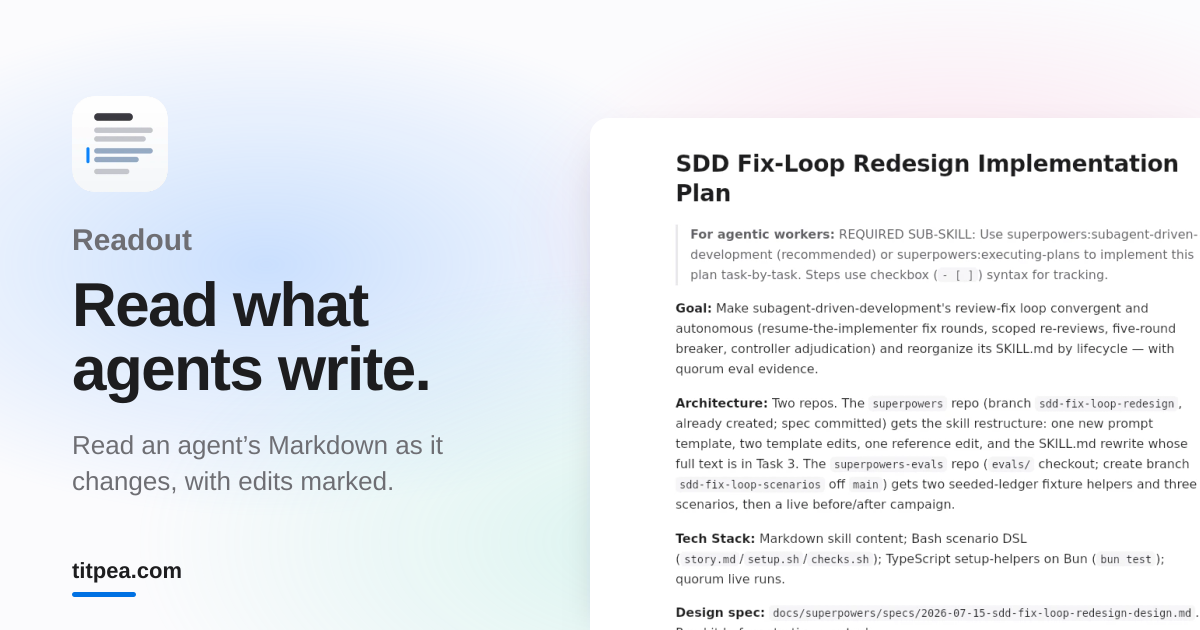
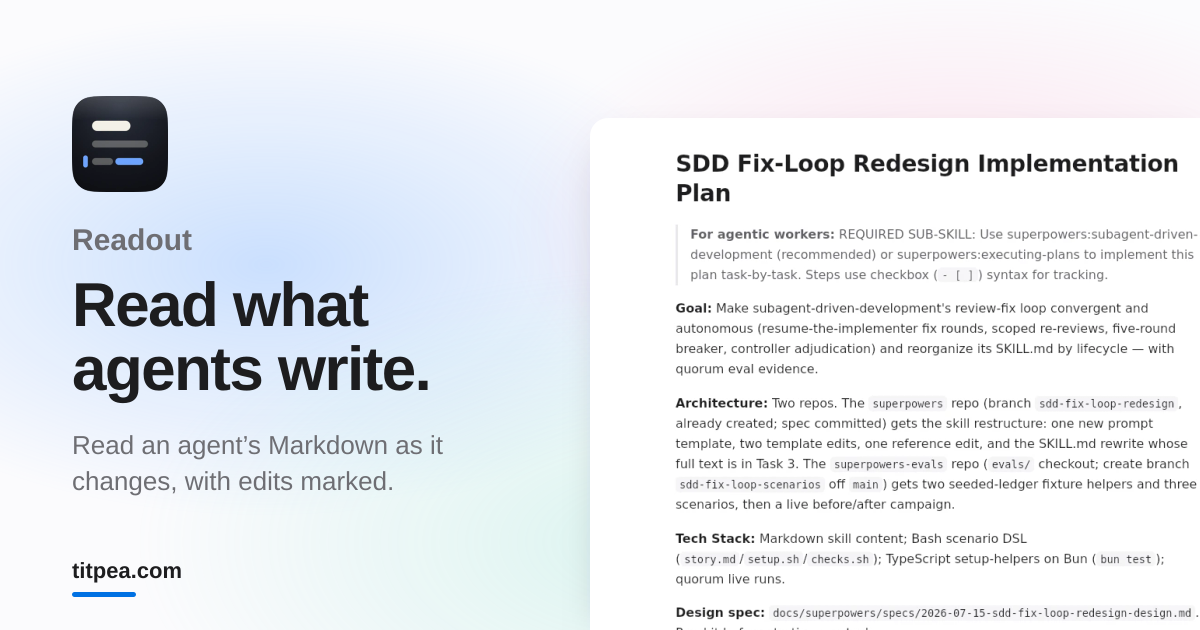
Readout v3.3.0 (#195)
* releases: Readout v3.3.0 (published 2026-10-12 UTC, as releases:sync records it)

Claude-Session: https://claude.ai/code/session_01JmaFxrCaTr7J8dy17sm4dB

* Readout 3.3.0: new documents open on their own, CLI by symlink, new icon

Copy now matches Readout v3.3.0 (en and zh):
- New card for the 3.2.0 auto-open of new documents in agent folders,
  replacing the ⌥⌘R card; the folders FAQ now covers what opens, the
  three-document burst rule and the ⌥⌘R shortcut.
- The CLI FAQ drops the removed Install Command Line Tool menu item and
  gives the README's symlink command; the hook stays optional.
- The new app icon (tools/icon/readout-1024.png) replaces the official
  artwork, with the product colour pair re-sampled from it; share images
  that show the icon are re-rendered.
- The Chinese hero render is re-cropped from the v3.3.0 corpus capture,
  whose mixed-script line height changed.

Claude-Session: https://claude.ai/code/session_01JmaFxrCaTr7J8dy17sm4dB

* Readout FAQ: include mkdir -p ~/.local/bin, as the README does

Claude-Session: https://claude.ai/code/session_01JmaFxrCaTr7J8dy17sm4dB

* Readout zh FAQ: split the mkdir and ln steps to fit the sentence limit

Claude-Session: https://claude.ai/code/session_01JmaFxrCaTr7J8dy17sm4dB

* CI: Page QA timeout 8 → 12 minutes

With Readout added (16 products, 493 checks) the step needs about
7.5–8 minutes and hit the 8-minute cap on the PR run.

Claude-Session: https://claude.ai/code/session_01JmaFxrCaTr7J8dy17sm4dB

---------

Changed region(s): [[0.0617, 0.1508, 0.1542, 0.3317]]

diff --git a/src/content/products/readout.ts b/src/content/products/readout.ts
@@ -14,7 +14,7 @@ export default defineProduct({
   en: {
     title: "Readout",
     description:
-      "A native, read-only Markdown reader for macOS, made for what AI agents write: it follows the file live and marks what changed since you last read it.",
+      "A native, read-only Markdown reader for macOS, made for what AI agents write: it opens their new documents, follows them live and marks what changed since you last read.",
     eyebrow: "Markdown reader for macOS",
     headline: "Read what agents write.",
     lead: "Follows the file live. Marks what changed. Read-only.",
@@ -69,7 +69,7 @@ export default defineProduct({
             title: "GitHub-flavoured Markdown",
             body: "Tables, alerts, footnotes, highlighted code, KaTeX math and Mermaid.",
           },
-          { title: "Newest file, one key", body: "⌥⌘R opens the latest Markdown in your agents’ folders." },
+          { title: "Opens new documents", body: "New Markdown in an agent folder opens in the background." },
         ],
       },
       {
@@ -99,11 +99,11 @@ export default defineProduct({
           },
           {
             title: "Can I open files from the terminal or Claude Code?",
-            body: "Choose Readout → Install Command Line Tool… to get `readout`: `readout plan.md` opens a file and brings Readout forward, `readout -b plan.md` opens it without switching apps. For Claude Code, add a `PostToolUse` hook to `~/.claude/settings.json` with the matcher `Write|Edit|MultiEdit` and the command `readout --hook`. The hook opens the written file in the background, and only when it is Markdown.",
+            body: "Agents need no setup: the folders in Settings are enough. For a `readout` command, link the script inside the app with `mkdir -p ~/.local/bin && ln -sf /Applications/Readout.app/Contents/Resources/readout ~/.local/bin/readout`, with `~/.local/bin` on your `PATH`. Then `readout plan.md` opens a file, and `readout -b plan.md` opens it as a tab behind the one you are reading, without switching apps. To use a Claude Code hook instead of a watched folder, add `readout --hook` as a `PostToolUse` command for `Write|Edit|MultiEdit` in `~/.claude/settings.json`. It opens the written file in the background, and only when it is Markdown.",
           },
           {
-            title: "Which folders does ⌥⌘R look in?",
-            body: "The Agent folders you add in Settings; Claude Code’s `~/.claude/plans` is added on first launch when it exists. The global shortcut can be changed or turned off there.",
+            title: "Which folders does Readout watch?",
+            body: "The Agent folders you add in Settings; Claude Code’s `~/.claude/plans` is added on first launch when it exists. A new Markdown document there opens as a tab behind the one you are reading, and your terminal keeps focus. Edits to files that were already there open nothing, and when more than three new documents appear at once, only the newest opens. ⌥⌘R opens the newest one from anywhere; the shortcut can be changed or turned off in Settings.",
           },
           {
             title: "Does it work in Quick Look?",
@@ -120,7 +120,7 @@ export default defineProduct({
   zh: {
     title: "Readout",
     description:
-      "为 AI Agent 写的文档打造的 macOS 原生只读 Markdown 阅读器：跟随文件实时更新，标出自你上次阅读以来哪里变了。",
+      "为 AI Agent 写的文档打造的 macOS 原生只读 Markdown 阅读器：自动打开 Agent 新建的文档，跟随写入实时更新，标出自你上次阅读以来哪里变了。",
     eyebrow: "macOS Markdown 阅读器",
     headline: "读 Agent 写的文档",
     lead: "实时跟随写入。标出改动。始终只读。",
@@ -145,7 +145,7 @@ export default defineProduct({
         src: "/assets/readout-plan-zh.webp",
         alt: "Readout 的阅读视图，显示一份中英混排的 Agent 实现计划（来自 zkywsg/Daily-LLM）。可以看到标题、引用说明、Goal 等段落、任务复选框和代码块。",
         width: 900,
-        height: 800,
+        height: 830,
       },
       caption: "Readout 的阅读视图，由它自己的测试在 WebKit 中渲染，未包含窗口外框。",
     },
@@ -172,7 +172,7 @@ export default defineProduct({
           { title: "记得读过哪里", body: "读过后标记自动消退，重启后仍然保留。" },
           { title: "带进度的大纲", body: "侧边栏列出标题，以及每节任务的完成数。" },
           { title: "完整 GFM", body: "表格、提示块、脚注、代码高亮、KaTeX 公式和 Mermaid 图表。" },
-          { title: "一键打开最新文件", body: "按 ⌥⌘R 打开 Agent 文件夹里最新的 Markdown。" },
+          { title: "自动打开新文档", body: "Agent 文件夹里新建的 Markdown 在后台打开，不抢焦点。" },
         ],
       },
       {
@@ -202,11 +202,11 @@ export default defineProduct({
           },
           {
             title: "能从终端或 Claude Code 打开文件吗？",
-            body: "选择 Readout → 安装命令行工具…，即可使用 `readout`。`readout plan.md` 打开文件并切换到 Readout；`readout -b plan.md` 打开但不切换应用。配合 Claude Code 时，在 `~/.claude/settings.json` 中加入 `PostToolUse` hook。matcher 设为 `Write|Edit|MultiEdit`，命令为 `readout --hook`。只有写入的是 Markdown 文件时，它才在后台打开。",
+            body: "配合 Agent 使用无需任何配置，设置里的文件夹就够了。如果想要 `readout` 命令，可以把 App 里自带的脚本链接出来，`~/.local/bin` 需要在 `PATH` 中。先建目录：`mkdir -p ~/.local/bin`。再链接：`ln -sf /Applications/Readout.app/Contents/Resources/readout ~/.local/bin/readout`。之后 `readout plan.md` 打开文件；`readout -b plan.md` 在后台打开，作为标签页排在正在阅读的文档之后，不切换应用。如果想用 Claude Code hook 代替文件夹监视，在 `~/.claude/settings.json` 里添加 `PostToolUse` hook；matcher 设为 `Write|Edit|MultiEdit`，命令为 `readout --hook`。只有写入的是 Markdown 文件时，它才在后台打开。",
           },
           {
-            title: "⌥⌘R 会在哪些文件夹里找？",
-            body: "在设置里添加的“Agent 文件夹”；首次启动时，如果 Claude Code 的 `~/.claude/plans` 存在，会自动加入。全局快捷键也可以在那里更换或关闭。",
+            title: "Readout 会监视哪些文件夹？",
+            body: "在设置里添加的“Agent 文件夹”；首次启动时，如果 Claude Code 的 `~/.claude/plans` 存在，会自动加入。Agent 在这里新建的 Markdown 文档会作为标签页排在正在阅读的文档之后打开，终端保持焦点。修改已有文件不会打开任何文档；同时出现超过三个新文档时，只打开最新的一个。在任何地方按 ⌥⌘R 可打开最新的一个，这个全局快捷键可以在设置里更换或关闭。",
           },
           {
             title: "支持 Quick Look 吗？",

diff --git a/src/styles/tokens.css b/src/styles/tokens.css
@@ -134,8 +134,8 @@
   --ink-pagewise: #5061d6;
   --tint-pulse: #6e6e73;
   --ink-pulse: #6c6c70;
-  --tint-readout: #96aac4;
-  --ink-readout: #4f6a8f;
+  --tint-readout: #6fa4ff;
+  --ink-readout: #2a64cc;
   --tint-s3-turbo-list: #f89848;
   --ink-s3-turbo-list: #ad5207;
   --tint-storage-agent-workbench: #5878e8;
@@ -183,8 +183,8 @@ html:lang(zh) {
   --ink-pagewise: #7582df;
   --tint-pulse: #8a8a8f;
   --ink-pulse: #89898e;
-  --tint-readout: #96aac4;
-  --ink-readout: #96aac4;
+  --tint-readout: #6fa4ff;
+  --ink-readout: #6fa4ff;
   --tint-s3-turbo-list: #f5984b;
   --ink-s3-turbo-list: #f89848;
   --tint-storage-agent-workbench: #5878e8;
@@ -251,8 +251,8 @@ html:lang(zh) {
     --ink-pagewise: #7582df;
     --tint-pulse: #8a8a8f;
     --ink-pulse: #89898e;
-    --tint-readout: #96aac4;
-    --ink-readout: #96aac4;
+    --tint-readout: #6fa4ff;
+    --ink-readout: #6fa4ff;
     --tint-s3-turbo-list: #f5984b;
     --ink-s3-turbo-list: #f89848;
     --tint-storage-agent-workbench: #5878e8;

diff --git a/design/icons/README.md b/design/icons/README.md
@@ -10,7 +10,7 @@ store-style artwork with a transparent margin and drop shadow fills the tile lik
 | Storage Agent, PageWise, Pulse, World Machine, Goban | their repositories (already in `public/assets/icons/`)                                                             | official                                                                             |
 | Chessboard                                           | `chessboard-official.png`, from the app repository's `assets/icon.png` (11.0 and later)                            | official                                                                             |
 | Easier Bookmarks                                     | `easier-bookmarks-official.png`, from the extension repository's `brand/logo.svg`                                  | official                                                                             |
-| Readout                                              | `readout-official.png`, from the app repository's `tools/icon-1024.png` (3.1.0)                                    | official                                                                             |
+| Readout                                              | `readout-official.png`, from the app repository's `tools/icon/readout-1024.png` (3.2.0 and later)                  | official                                                                             |
 | Bilingual (对读)                                     | `bilingual-official.png`, from the extension repository's `icons/icon-1024.png`                                    | official                                                                             |
 | Douban Movie Rating Assistant                        | `douban-movie-rating-official.png`, from the extension repository's `store/assets/icon-source.svg` (1.4 and later) | official                                                                             |
 | World Clock                                          | `world-clock-official.png`, rendered at 1024 px from the extension repository's `brand/icon.svg`                   | official                                                                             |
